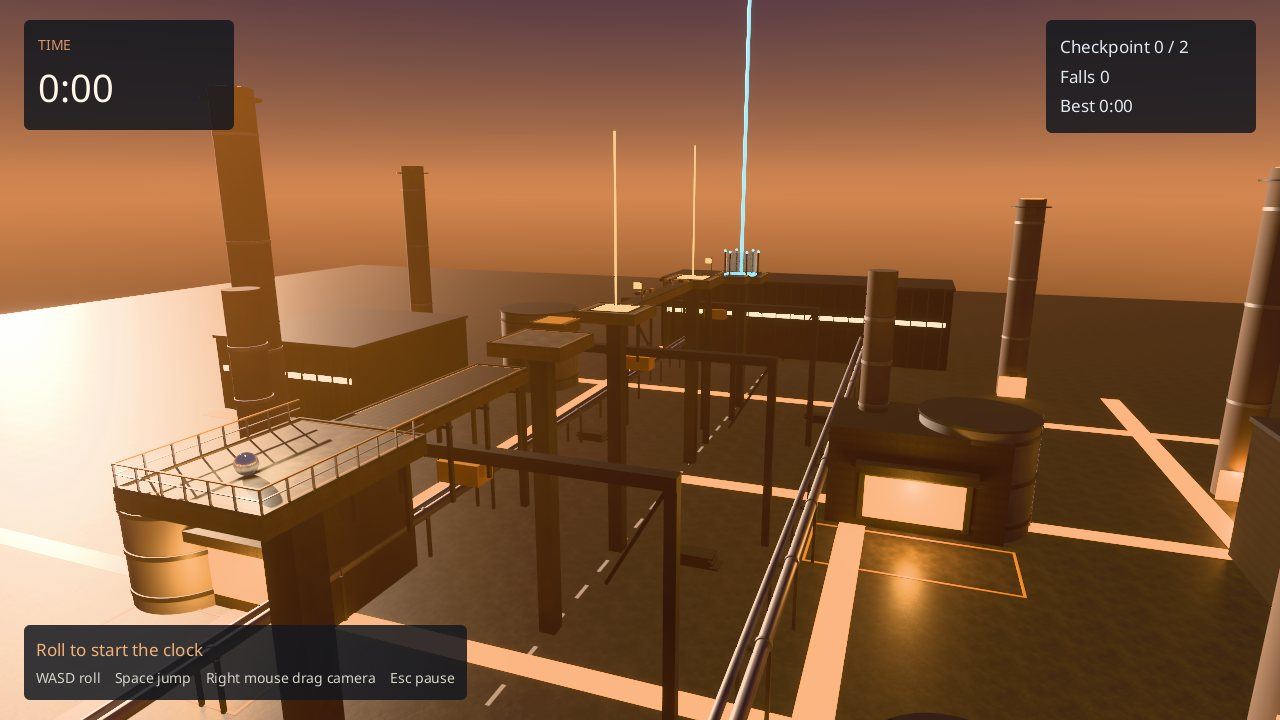
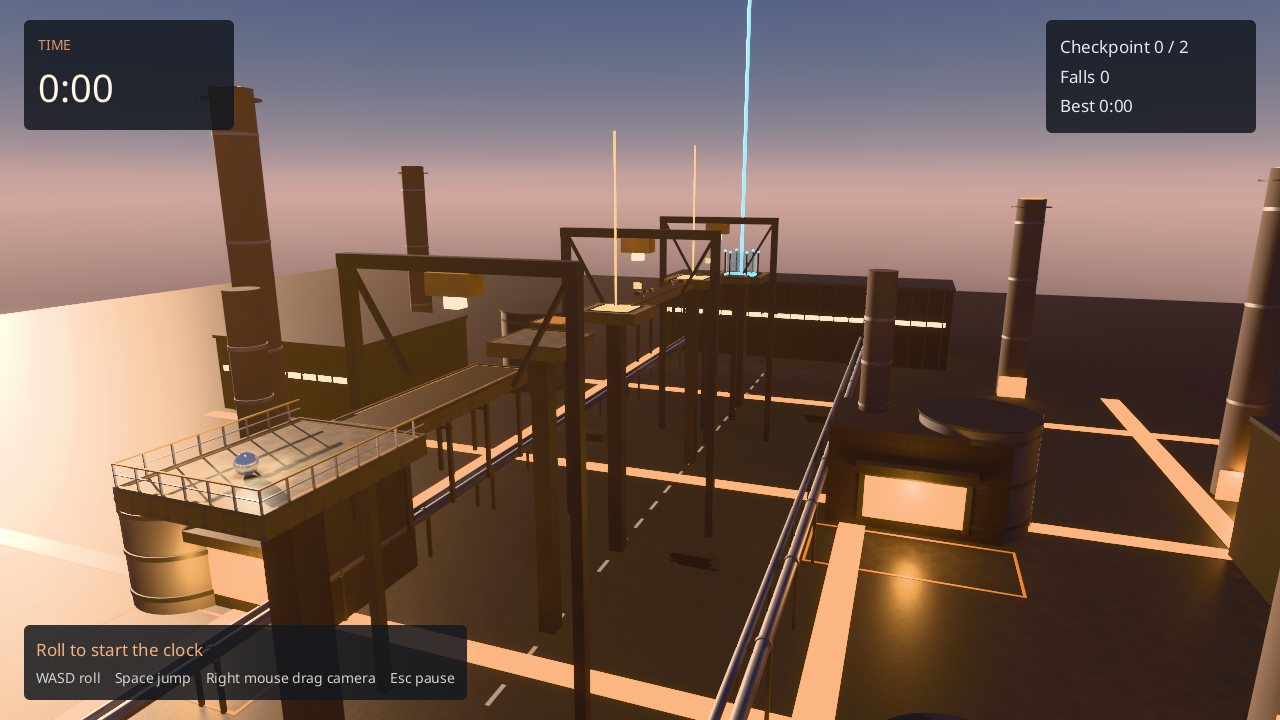
Glint colour 1/3: two temperatures
Cool blue-grey zenith and fill against a warm low sun (11 degrees) and the furnaces; a much darker
yard away from the route; a lighter deck; tall gantries beside and over the route so their
beams and the dock railing rake long shadows across the deck. Replay: 1947 ticks.

diff --git a/crates/ara-samples/src/build/glint/kits.rs b/crates/ara-samples/src/build/glint/kits.rs
@@ -105,8 +105,8 @@ pub fn course(root: &Path, lock: &Lock) -> Result<String> {
     const RAIL: usize = 5;
     let mut k = Kit::new(vec![
         Material::textured("rust steel", "rusty_metal_02").tinted([0.55, 0.5, 0.46]),
-        Material::textured("poured concrete", "concrete_floor_02").tinted([0.72, 0.7, 0.66]),
-        Material::textured("tread plate", "metal_plate").tinted([0.8, 0.82, 0.85]),
+        Material::textured("poured concrete", "concrete_floor_02").tinted([0.9, 0.88, 0.84]),
+        Material::textured("tread plate", "metal_plate").tinted([0.95, 0.97, 1.0]),
         Material::flat("amber paint", [0.85, 0.42, 0.08], 0.5, 0.0),
         Material::flat("black girder steel", [0.06, 0.065, 0.07], 0.55, 1.0),
         Material::flat("galvanised rail", [0.72, 0.74, 0.76], 0.38, 1.0),
@@ -291,18 +291,18 @@ pub fn yard(root: &Path, lock: &Lock) -> Result<String> {
     const STEEL: usize = 10;
     const PLATES: usize = 11;
     let mut k = Kit::new(vec![
-        Material::textured("yard concrete", "concrete_floor_02").tinted([0.2, 0.19, 0.18]),
-        Material::flat("sooty brick", [0.15, 0.12, 0.105], 0.92, 0.0),
-        Material::flat("tank steel", [0.24, 0.25, 0.27], 0.6, 0.45),
+        Material::textured("yard concrete", "concrete_floor_02").tinted([0.075, 0.08, 0.095]),
+        Material::flat("sooty brick", [0.1, 0.09, 0.09], 0.92, 0.0),
+        Material::flat("tank steel", [0.16, 0.18, 0.22], 0.6, 0.45),
         Material::emitter("slag", [1.0, 0.38, 0.08]),
-        Material::textured("shed cladding", "metal_plate").tinted([0.16, 0.17, 0.19]),
+        Material::textured("shed cladding", "metal_plate").tinted([0.1, 0.11, 0.14]),
         Material::glass("control glass", [0.6, 0.8, 0.9], 0.3),
         Material::emitter("window light", [1.0, 0.82, 0.55]),
         Material::flat("pipe steel", [0.34, 0.35, 0.37], 0.5, 0.8),
         Material::flat("amber paint", [0.85, 0.42, 0.08], 0.5, 0.0),
         Material::flat("road marking", [0.7, 0.66, 0.55], 0.85, 0.0),
         Material::flat("black girder steel", [0.06, 0.065, 0.07], 0.55, 1.0),
-        Material::textured("stacked plate", "metal_plate").tinted([0.3, 0.31, 0.33]),
+        Material::textured("stacked plate", "metal_plate").tinted([0.2, 0.22, 0.26]),
     ]);
     let v = Vec3::new;
     let floor = YARD_FLOOR;
@@ -376,18 +376,20 @@ pub fn yard(root: &Path, lock: &Lock) -> Result<String> {
         }
         pipe(&mut k, PIPE, 0.28, v(x + r - 0.2, floor + 1.0, z), 1, 9.0);
     }
-    // Gantry frames across the route: uprights, a top beam, diagonal braces, a trolley.
+    // Gantry frames beside and over the route: tall uprights, a top beam above the deck (its
+    // shadow rakes across the catwalk), diagonal braces, a hanging lamp.
     for z in [14.0, 46.0, 78.0] {
-        let top = floor + 19.0;
-        for x in [-14.0, 14.0] {
+        let top = floor + 31.0;
+        for x in [-8.0, 8.0] {
             slab_box(&mut k, STEEL, v(x - 0.4, floor, z - 0.4), v(x + 0.4, top + 0.6, z + 0.4), Vec2::ONE);
             let flip = if x < 0.0 { 1.0 } else { -1.0 };
             for dz in [-1.0, 1.0] {
                 k.cuboid(STEEL, v(0.25, 7.6, 0.25), Mat4::from_translation(v(x + flip * 2.3, top - 3.5, z + dz * 0.1)) * Mat4::from_rotation_z(flip * 0.52), Vec2::ONE);
             }
         }
-        slab_box(&mut k, STEEL, v(-14.4, top, z - 0.5), v(14.4, top + 0.9, z + 0.5), Vec2::ONE);
+        slab_box(&mut k, STEEL, v(-8.4, top, z - 0.5), v(8.4, top + 0.9, z + 0.5), Vec2::ONE);
         slab_box(&mut k, AMBER, v(-1.5, top - 1.4, z - 0.9), v(1.5, top, z + 0.9), Vec2::ONE);
+        slab_box(&mut k, WINDOW, v(-0.5, top - 2.2, z - 0.5), v(0.5, top - 1.4, z + 0.5), Vec2::ONE);
     }
     // Pipe racks: two long runs along the route on frames, one run across the yard.
     for (x, h) in [(-18.0, 6.0), (18.0, 4.5)] {

diff --git a/crates/ara-samples/src/build/glint/mod.rs b/crates/ara-samples/src/build/glint/mod.rs
@@ -32,7 +32,7 @@ const EV100: f32 = 11.0;
 const START: Vec3 = Vec3::new(0.0, 0.6, -2.0);
 /// Direction the sun's light travels: about 13 degrees above the horizon, raking across the
 /// course from its right and ahead, so slab edges and bars throw long shadows left and back.
-const SUN: Vec3 = Vec3::new(-0.85, -0.22, -0.47);
+const SUN: Vec3 = Vec3::new(-0.88, -0.19, -0.43);
 
 /// The moving platform's path: centre, travel, period in ticks.
 const MOVER_ORIGIN: Vec3 = Vec3::new(0.0, 0.8 - SLAB * 0.5, 32.5);
@@ -78,11 +78,11 @@ fn art(s: &mut Scene) {
         "e_env",
         "Dusk sky and fixed exposure",
         json!({
-            "Environment": {"sky": [0.03, 0.06, 0.2, 1], "horizon": [0.8, 0.4, 0.2, 1], "skyFalloff": 4.5,
-                "glow": [0.7, 0.2, 0.05, 1], "glowFalloff": 14, "ground": [0.03, 0.025, 0.025, 1],
-                "intensity": 1200, "skyLight": 1},
+            "Environment": {"sky": [0.1, 0.17, 0.38, 1], "horizon": [0.55, 0.52, 0.56, 1], "skyFalloff": 6.0,
+                "glow": [0.55, 0.17, 0.05, 1], "glowFalloff": 26, "ground": [0.02, 0.022, 0.03, 1],
+                "intensity": 1600, "skyLight": 1},
             // Dusk haze: warm height fog thickens toward the yard far below.
-            "HeightFog": {"density": 0.0001, "falloff": 30, "albedo": [1.0, 0.72, 0.52, 1], "anisotropy": 0.6},
+            "HeightFog": {"density": 0.0001, "falloff": 30, "albedo": [0.6, 0.68, 0.85, 1], "anisotropy": 0.5},
             "PostProcessVolume": {"overrides": [
                 {"exposure": "manual", "ev100": EV100},
                 {"module": "toneMapping", "toneMapping": "neutral"},
@@ -93,7 +93,7 @@ fn art(s: &mut Scene) {
         "e_sun",
         "Sun",
         Vec3::new(0.0, 40.0, 30.0),
-        json!({"kind": "directional", "color": [1.0, 0.7, 0.48, 1], "intensity": 25_000, "sourceAngle": 0.5357}),
+        json!({"kind": "directional", "color": [1.0, 0.64, 0.4, 1], "intensity": 25_000, "sourceAngle": 0.5357}),
         Some(SUN),
     ));
     // Furnace glow at the chimneys' feet, far below; checkpoint and goal lights on the course.
